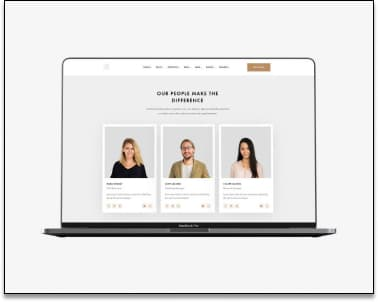
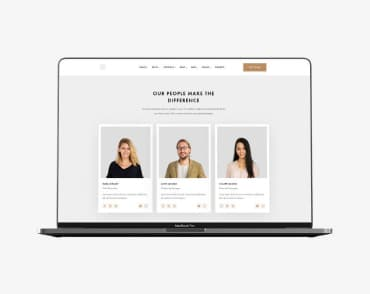
fix progect

diff --git a/portfolio.html b/portfolio.html
@@ -9,13 +9,9 @@
       href="https://fonts.googleapis.com/css2?family=Raleway:wght@700&family=Roboto:wght@400;500;700;900&display=swap"
       rel="stylesheet"
     />
-    <link
-      rel="stylesheet"
-      href="https://cdnjs.cloudflare.com/ajax/libs/modern-normalize/1.1.0/modern-normalize.min.css"
+    <link rel="stylesheet" href="https://cdnjs.cloudflare.com/ajax/libs/modern-normalize/1.1.0/modern-normalize.min.css"
       integrity="sha512-wpPYUAdjBVSE4KJnH1VR1HeZfpl1ub8YT/NKx4PuQ5NmX2tKuGu6U/JRp5y+Y8XG2tV+wKQpNHVUX03MfMFn9Q=="
-      crossorigin="anonymous"
-      referrerpolicy="no-referrer"
-    />
+      crossorigin="anonymous" referrerpolicy="no-referrer" />
     <link rel="stylesheet" href="./css/reset.css" />
     <link rel="stylesheet" href="./css/styles.css" />
   </head>
@@ -67,7 +63,6 @@
       <!--------------------PORTFOLIO SECTION----------------->
       <section class="portfolio">
         <div class="container portfolio-container">
-          <h2 class="visually-hidden">Портфолио</h2>
           <ul class="portfolio-list">
             <li class="portfolio-item">
               <a href="#">
@@ -78,7 +73,7 @@
                   height="294"
                 />
                 <div class="img-name">
-                  <h3 class="portfolio-title">Технокряк</h3>
+                  <h2 class="portfolio-title">Технокряк</h2>
                   <p class="portfolio-text">Веб-сайт</p>
                 </div>
               </a>
@@ -92,9 +87,9 @@
                   height="294"
                 />
                 <div class="img-name">
-                  <h3 class="portfolio-title">
+                  <h2 class="portfolio-title">
                     Постер <span lang="en">New Orlean vs Golden Star</span>
-                  </h3>
+                  </h2>
                   <p class="portfolio-text">Дизайн</p>
                 </div>
               </a>
@@ -108,7 +103,7 @@
                   height="294"
                 />
                 <div class="img-name">
-                  <h3 class="portfolio-title">Ресторан <span lang="en">Seafood</span></h3>
+                  <h2 class="portfolio-title">Ресторан <span lang="en">Seafood</span></h2>
                   <p class="portfolio-text">Приложение</p>
                 </div>
               </a>
@@ -122,7 +117,7 @@
                   height="294"
                 />
                 <div class="img-name">
-                  <h3 class="portfolio-title">Проект <span lang="en">Prime</span></h3>
+                  <h2 class="portfolio-title">Проект <span lang="en">Prime</span></h2>
                   <p class="portfolio-text">Маркетинг</p>
                 </div>
               </a>
@@ -131,7 +126,7 @@
               <a href="#">
                 <img src="./images/port-boxes-img-12.jpg" alt="коробки" width="370" height="294" />
                 <div class="img-name">
-                  <h3 class="portfolio-title">Проект <span lang="en">Boxes</span></h3>
+                  <h2 class="portfolio-title">Проект <span lang="en">Boxes</span></h2>
                   <p class="portfolio-text">Приложение</p>
                 </div>
               </a>
@@ -145,7 +140,7 @@
                   height="294"
                 />
                 <div class="img-name">
-                  <h3 class="portfolio-title" lang="en">Inspiration has no Borders</h3>
+                  <h2 class="portfolio-title" lang="en">Inspiration has no Borders</h2>
                   <p class="portfolio-text">Веб-сайт</p>
                 </div>
               </a>
@@ -159,7 +154,7 @@
                   height="294"
                 />
                 <div class="img-name">
-                  <h3 class="portfolio-title">Издание <span lang="en">Limited Edition</span></h3>
+                  <h2 class="portfolio-title">Издание <span lang="en">Limited Edition</span></h2>
                   <p class="portfolio-text">Дизайн</p>
                 </div>
               </a>
@@ -168,7 +163,7 @@
               <a href="#">
                 <img src="./images/port-label-img-15.jpg" alt="ярлык" width="370" height="294" />
                 <div class="img-name">
-                  <h3 class="portfolio-title">Проект <span lang="en">LAB</span></h3>
+                  <h2 class="portfolio-title">Проект <span lang="en">LAB</span></h2>
                   <p class="portfolio-text">Маркетинг</p>
                 </div>
               </a>
@@ -182,7 +177,7 @@
                   height="294"
                 />
                 <div class="img-name">
-                  <h3 class="portfolio-title" lang="en">Growing Business</h3>
+                  <h2 class="portfolio-title" lang="en">Growing Business</h2>
                   <p class="portfolio-text">Приложение</p>
                 </div>
               </a>

diff --git a/css/styles.css b/css/styles.css
@@ -28,35 +28,18 @@ body {
   padding-bottom: 32px;
   border-bottom: 1px solid #ececec;
 }
+.header-logo {
+  margin-right: 93px;
+}
 .header-container {
   display: flex;
   align-items: center;
-  justify-content: center;
 }
 .header-nav {
   display: flex;
-}
-.header-list {
-  display: flex;
   align-items: center;
-  list-style-type: none;
 }
-.header-connect {
-  display: inline-block;
-  margin-left: auto;
-}
-.header-item {
-  display: block;
-}
-.header-item:not(:last-child) {
-  margin-right: 50px;
-}
-.header-logo {
-  margin-right: 93px;
-  display: block;
-  padding-top: 24px;
-  padding-bottom: 25px;
-}
+
 .header-logo-2 {
   color: var(--title-text-color);
 }
@@ -69,30 +52,36 @@ body {
   line-height: 1.19;
   letter-spacing: 0.03em;
 }
+.header-list {
+  display: flex;
+}
+.header-item:not(:last-child) {
+  margin-right: 50px;
+}
 .header-link {
+  display: block;
   font-weight: 500;
   font-size: 14px;
   line-height: 1.14;
   letter-spacing: 0.02em;
   color: var(--title-text-color);
 }
+.current {
+  color: var(--accent-color);
+}
+.header-link:hover,
+.header-link:focus {
+  color: var(--accent-color);
+}
 .header-connect {
-  display: inline-block;
-  list-style-type: none;
+  display: flex;
+  margin-left: auto;
 }
 .connection {
   color: var(--primary-text-color);
 }
 .connection:not(:last-child) {
   margin-right: 50px;
-}
-
-.header-link:hover,
-.header-link:focus {
-  color: var(--accent-color);
-}
-.current {
-  color: var(--accent-color);
 }
 /*------------HERO----------------*/
 .hero {
@@ -199,22 +188,18 @@ body {
 }
 .team-card {
   background-color: var(--primary-white-color);
+  box-shadow: 0px 1px 3px rgba(0, 0, 0, 0.12), 0px 1px 1px rgba(0, 0, 0, 0.14),
+    0px 2px 1px rgba(0, 0, 0, 0.2);
+  border-radius: 0px 0px 4px 4px;
+  border-top-style: none;
 }
 .team-card:not(:last-child) {
   margin-right: 30px;
 }
 .team-name-border {
-  box-shadow: 0px 1px 3px rgba(0, 0, 0, 0.12), 0px 1px 1px rgba(0, 0, 0, 0.14),
-    0px 2px 1px rgba(0, 0, 0, 0.2);
-  border-radius: 0px 0px 4px 4px;
-  border-top-style: none;
   padding-top: 30px;
   padding-bottom: 30px;
   text-align: center;
-}
-.team-section-img {
-  box-shadow: 0px 1px 3px rgba(0, 0, 0, 0.12), 0px 1px 1px rgba(0, 0, 0, 0.14),
-    0px 2px 1px rgba(0, 0, 0, 0.2);
 }
 .our-employees-title {
   font-weight: 500;
@@ -280,10 +265,6 @@ body {
   display: flex;
   justify-content: center;
 }
-.filter-item {
-  border: none;
-  border-radius: 4px;
-}
 .filter-item:not(:last-child) {
   margin-right: 8px;
 }
@@ -296,6 +277,10 @@ body {
   text-align: center;
   letter-spacing: 0.03em;
   color: var(--primary-white-color);
+  border: none;
+  border-radius: 4px;
+  min-height: 38px;
+  padding: 6px 22px;
 }
 .portfolio-btn {
   background-color: var(--team-color);
@@ -306,45 +291,41 @@ body {
   text-align: center;
   letter-spacing: 0.03em;
   color: var(--title-text-color);
+  border: none;
+  border-radius: 4px;
+  min-height: 38px;
+  padding: 6px 22px;
 }
 /* -----------------PORTFOLIO---------- */
 .portfolio-container {
-  margin-right: auto;
-  margin-left: auto;
   padding-bottom: var(--section-padding);
 }
 .portfolio-list {
   display: flex;
   flex-wrap: wrap;
-}
-.portfolio-item:not(:nth-child(3n)) {
-  margin-right: 30px;
-}
-.portfolio-item:not(:nth-last-child(-n + 3)) {
-  margin-bottom: 30px;
+  margin-left: -30px;
+  margin-bottom: -30px;
 }
 .portfolio-item {
-  flex-basis: calc(100% / 3 - 30px);
+  width: calc(100% / 3 - 30px);
+  margin-left: 30px;
+  margin-bottom: 30px;
   background-color: var(--primary-white-color);
-  border: 1px;
-  box-sizing: border-box;
 }
 .img-name {
-  box-shadow: 0px 1px 3px rgba(0, 0, 0, 0.12), 0px 1px 1px rgba(0, 0, 0, 0.14),
-    0px 2px 1px rgba(0, 0, 0, 0.2);
-  border-radius: 0px 0px 4px 4px;
-  border-top-style: none;
-  padding-top: 20px;
-  padding-bottom: 20px;
-  text-align: center;
+  padding: 20px 24px;
+  box-sizing: border-box;
+  border-right: 1px solid #eeeeee;
+  border-bottom: 1px solid #eeeeee;
+  border-left: 1px solid #eeeeee;
 }
-
 .portfolio-title {
   font-weight: bold;
   font-size: 18px;
   line-height: 2;
   letter-spacing: 0.06em;
   color: var(--title-text-color);
+  margin-bottom: 4px;
 }
 .portfolio-text {
   font-size: 16px;

diff --git a/index.html b/index.html
@@ -9,13 +9,9 @@
       href="https://fonts.googleapis.com/css2?family=Raleway:wght@700&family=Roboto:wght@400;500;700;900&display=swap"
       rel="stylesheet"
     />
-    <link
-      rel="stylesheet"
-      href="https://cdnjs.cloudflare.com/ajax/libs/modern-normalize/1.1.0/modern-normalize.min.css"
+    <link rel="stylesheet" href="https://cdnjs.cloudflare.com/ajax/libs/modern-normalize/1.1.0/modern-normalize.min.css"
       integrity="sha512-wpPYUAdjBVSE4KJnH1VR1HeZfpl1ub8YT/NKx4PuQ5NmX2tKuGu6U/JRp5y+Y8XG2tV+wKQpNHVUX03MfMFn9Q=="
-      crossorigin="anonymous"
-      referrerpolicy="no-referrer"
-    />
+      crossorigin="anonymous" referrerpolicy="no-referrer" />
     <link rel="stylesheet" href="./css/reset.css" />
     <link rel="stylesheet" href="./css/styles.css" />
   </head>

diff --git a/css/reset.css b/css/reset.css
@@ -30,10 +30,10 @@ ul {
   white-space: nowrap;
   width: 1px;
   height: 1px;
-  margin: -1px;
-  padding: 0;
   overflow: hidden;
   border: 0;
+  padding: 0;
   clip: rect(0 0 0 0);
   clip-path: inset(50%);
+  margin: -1px;
 }
